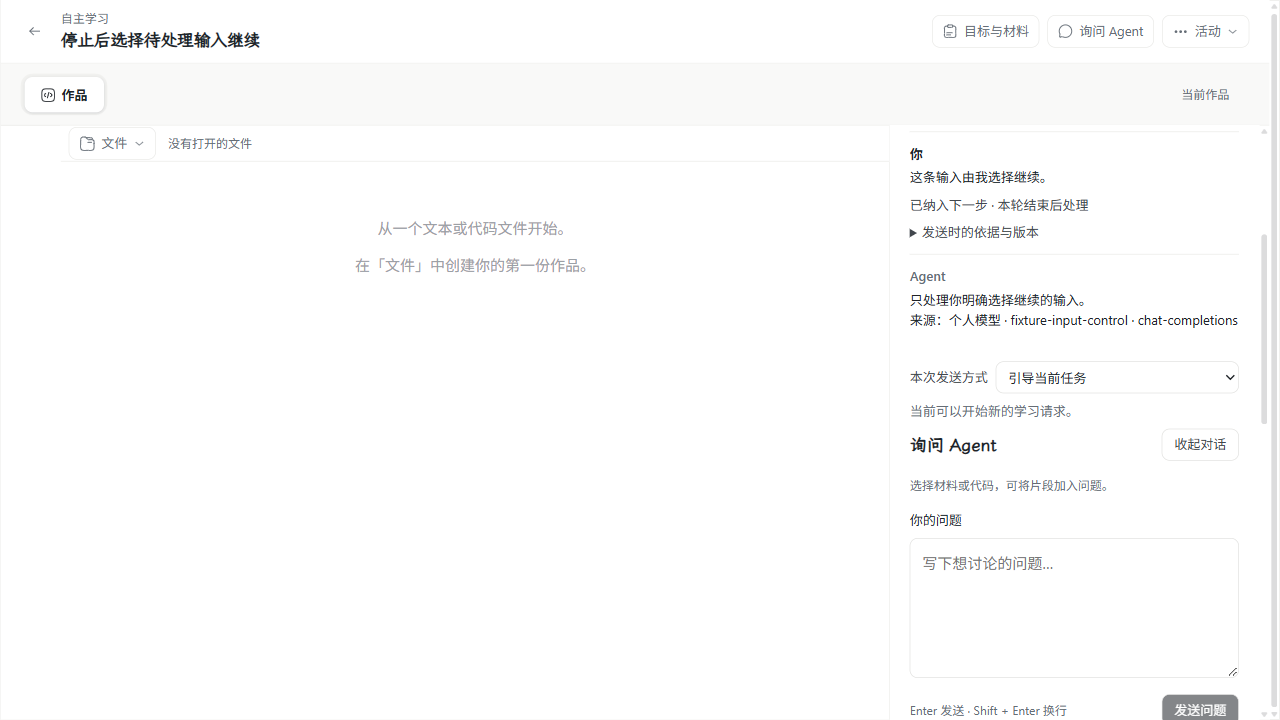
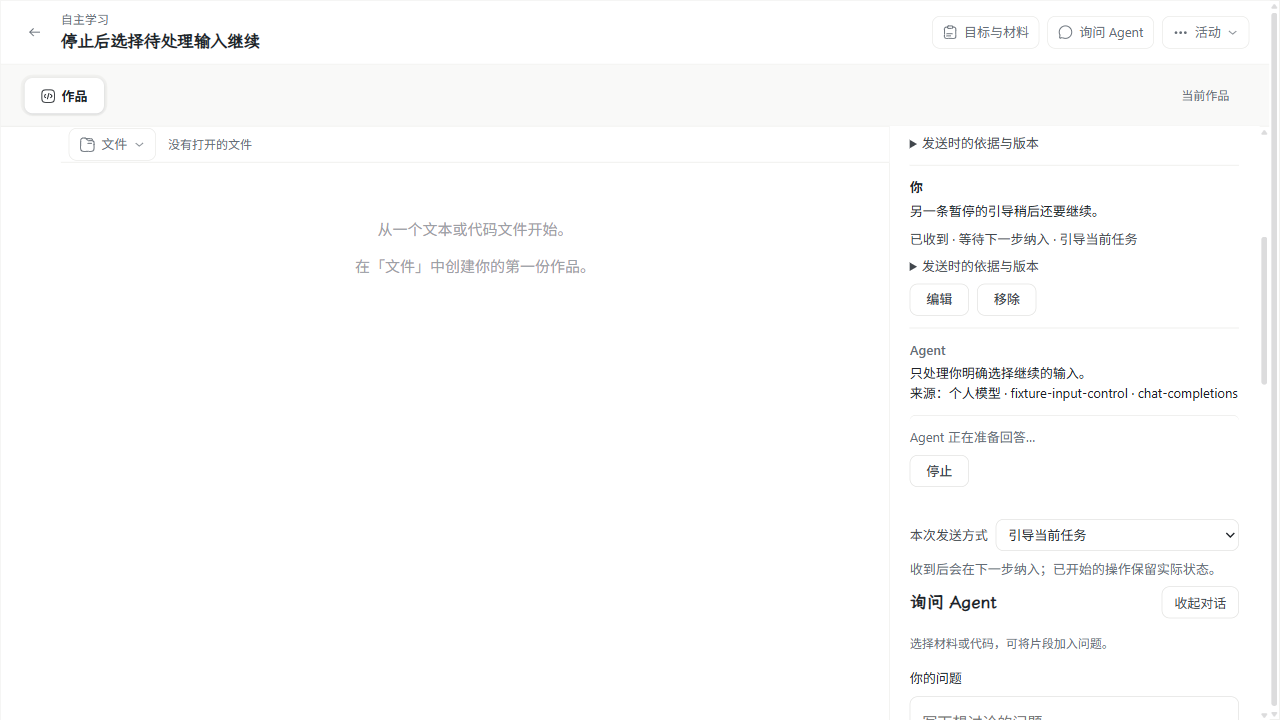
fix(wp07): retain paused input and immutable Wait observations (#200)

diff --git a/apps/web/e2e/inputControl.spec.ts b/apps/web/e2e/inputControl.spec.ts
@@ -2,6 +2,7 @@ import { test, expect } from '@playwright/test'
 import { mkdir } from 'node:fs/promises'
 import { fileURLToPath } from 'node:url'
 import { join } from 'node:path'
+import { teachingRunControlReceiptSchema } from '@xunjie/contracts/teaching-agent'
 import { fixture, reply, until } from '../../server/tests/support/teaching-input-control.mjs'
 
 const evidence = process.env.XUNJIE_INPUT_CONTROL_EVIDENCE_DIR
@@ -74,7 +75,7 @@ test('personal interaction settings persist and the busy composer freezes the ch
       return value.inputs.find((input: { input: { draft: { question: string } } }) => input.input.draft.question.startsWith('界面排队'))?.state
     }).toBe('pending')
     const received = (await f.api(`agent/${activity.activityId}/conversation`)).inputs.at(-1)
-    expect(received.input.delivery).toEqual({ version: 1, mode: 'queue', basis: { source: 'preference', preferenceVersion: (await f.api('agent-settings')).version } })
+    expect(received?.input.delivery).toEqual({ version: 1, mode: 'queue', basis: { source: 'preference', preferenceVersion: (await f.api('agent-settings')).version } })
     expect(f.payloads.length).toBe(1)
     await page.getByLabel('你的问题', { exact: true }).fill('尚未发送的中文草稿\n保留下一步想法。')
     await page.screenshot({ path: join(evidence, `input-control-queue-${process.platform}.png`) })
@@ -106,6 +107,9 @@ test('queued input editing survives reload and lost control receipts without cha
     await queued.getByRole('button', { name: '编辑', exact: true }).click()
     await queued.getByLabel('修改待处理内容', { exact: true }).fill('修改草稿，刷新后仍保留。')
     await expect(queued).toContainText('修改草稿已在本机保留。')
+    await queued.getByRole('button', { name: '保留草稿并收起', exact: true }).click()
+    await queued.getByRole('button', { name: '编辑', exact: true }).click()
+    await expect(queued.getByLabel('修改待处理内容', { exact: true })).toHaveValue('修改草稿，刷新后仍保留。')
     await page.reload()
     await page.getByRole('button', { name: '打开对话', exact: true }).click()
     await expect(page.getByLabel('修改待处理内容', { exact: true })).toHaveValue('修改草稿，刷新后仍保留。')
@@ -177,6 +181,7 @@ test('stop and selected continuation keep original control identities and remove
     await until(() => f.payloads.length === 1, 'Original generation is in flight.')
     await f.send(activity, '这条待处理内容要移除。', { version: 1, mode: 'queue', basis: { source: 'explicit', preferenceVersion: 0 } })
     const selected = await f.send(activity, '这条输入由我选择继续。', { version: 1, mode: 'queue', basis: { source: 'explicit', preferenceVersion: 0 } })
+    await f.send(activity, '另一条暂停的引导稍后还要继续。')
     await page.goto(f.endpoint + '/?activity=' + activity.activityId)
     await page.getByRole('button', { name: '打开对话', exact: true }).click()
     const conversation = page.getByRole('region', { name: '与 Agent 的对话', exact: true })
@@ -196,10 +201,18 @@ test('stop and selected continuation keep original control identities and remove
     await expect(page.getByText('只处理你明确选择继续的输入。', { exact: true })).toBeVisible({ timeout: 20000 })
     const value = await f.api(`agent/${activity.activityId}/conversation`)
     expect(value.runs.length).toBe(2)
-    expect(value.inputs.find((input: { inputId: string }) => input.inputId === selected.inputId).state).toBe('adopted')
+    expect(value.inputs.find((input: { inputId: string }) => input.inputId === selected.inputId)?.state).toBe('adopted')
     expect(f.payloads.length).toBe(2)
     expect(controls.length).toBe(1)
-    expect((await f.api(`agent/${activity.activityId}/controls/${controls[0]}`)).operation).toBe('stop')
+    expect(teachingRunControlReceiptSchema.parse(await f.api(`agent/${activity.activityId}/controls/${controls[0]}`)).operation).toBe('stop')
+    await conversation.getByRole('checkbox', { name: '另一条暂停的引导稍后还要继续。', exact: true }).check()
+    await conversation.getByRole('button', { name: '继续选中的输入', exact: true }).click()
+    await expect.poll(async () => {
+      const runs = (await f.api(`agent/${activity.activityId}/conversation`)).runs
+      return runs.length === 3 && runs.at(-1)?.state === 'completed'
+    }).toBe(true)
+    expect((await f.api(`agent/${activity.activityId}/conversation`)).runs.length).toBe(3)
+    expect(f.payloads.length).toBe(3)
     await page.screenshot({ path: join(evidence, `input-control-continue-${process.platform}.png`) })
   } finally { await f.close() }
 })
@@ -242,7 +255,7 @@ test('explicit response bypasses queue, consumption rejects a late edit and anot
     await expect(page.getByText('明确回应与补充第 4 步。', { exact: true })).toBeVisible({ timeout: 20000 })
     const value = await f.api(`agent/${activity.activityId}/conversation`)
     expect(value.runs.length).toBe(2)
-    expect(value.inputs.find((input: { inputId: string }) => input.inputId === queued.inputId).version).toBe(1)
+    expect(value.inputs.find((input: { inputId: string }) => input.inputId === queued.inputId)?.version).toBe(1)
     expect(value.questions[0].state).toBe('answered')
     expect(f.payloads.length).toBe(4)
   } finally { releaseEdit(); releaseModel(); await f.close() }

diff --git a/apps/web/src/product/AgentControls.tsx b/apps/web/src/product/AgentControls.tsx
@@ -15,6 +15,19 @@ const controlReasons: Record<string, string> = {
   'original-effects-unconfirmed': '原操作仍在核对，暂时不能建立后继任务。',
   'select-inputs': '请先选择要继续处理的输入。', 'run-active': '当前任务仍在运行，请先核对其状态。',
 }
+const pauseReasons: Record<string, string> = {
+  'stop-requested': '你已停止原任务，等待你决定如何继续。',
+  'student-response-expired': '原提问等待回应的期限已到，自动推进已暂停。',
+  'wait-expired': '原操作等待结果的期限已到，自动推进已暂停。',
+  'model-not-selected': '尚未选择模型，可以检查设置后继续。',
+  'model-unavailable': '当前模型暂不可用，输入仍保留。',
+  'model-step-budget-exhausted': '本次任务的计算预算已用尽。',
+  'tool-budget-exhausted': '本次任务的操作预算已用尽。',
+  'input-token-budget-exhausted': '本次任务的输入额度已用尽。',
+  'output-token-budget-exhausted': '本次任务的输出额度已用尽。',
+  'model-call-budget-exhausted': '本次任务的调用时间已用尽。',
+  'run-deadline-exceeded': '本次任务的总期限已到。',
+}
 
 /** Every control is protected before delivery. Remounts query the original receipt before retrying. */
 function useAgentControl(scope: string, target: string, readOnly: boolean, request: Request, confirmed: () => Promise<void>) {
@@ -44,7 +57,8 @@ function useAgentControl(scope: string, target: string, readOnly: boolean, reque
       const saved = await agentControlStore.change(key, current => {
         if (!current) throw new Error('原记录暂不可用。')
         return receipt.status === 'accepted' && pending.input.operation === 'revise' && current.draft && current.draft.text === pending.input.text
-          ? { ...current, draft: { ...current.draft, editing: false } } : current
+          ? { ...current, draft: { ...current.draft, editing: false,
+            expectedVersion: 'input' in receipt && receipt.input ? receipt.input.version : current.draft.expectedVersion } } : current
       })
       if (alive.current) {
         setRecord(saved); setError(receipt.status === 'rejected' ? controlReasons[receipt.reason] ?? '操作未生效，原内容仍保留。' : '')
@@ -102,16 +116,20 @@ export function AgentInputRecord({ input, scope, readOnly, request, onConfirmed 
   return <div className="agent-input-record" data-input-id={input.inputId} data-state={input.state}>
     <p className="detail">{status} · {input.mode === 'queue' ? '本轮结束后处理' : '引导当前任务'}</p>
     {input.version > 1 && <div className="preserve-lines"><span className="detail">当前版本：{input.version}</span><p>{input.input.draft.question}</p></div>}
-    {input.state === 'paused' && <p className="detail">暂停原因：{input.reason || '原任务未正常完成'}</p>}
+    {input.state === 'paused' && <><p className="detail">{pauseReasons[input.reason] ?? '原任务未正常完成，输入仍保留，可选择后继续。'}</p>
+      {input.reason && <details><summary>技术详情</summary><p className="detail">{input.reason}</p></details>}</>}
     <details><summary>发送时的依据与版本</summary><p className="detail">版本 {input.version}；{input.input.delivery?.basis.source === 'preference' ? '使用当时的个人偏好' : '本次明确选择'}。</p>
       {input.input.draft.references.map(ref => <p className="detail" key={ref.referenceId}>引用：{ref.sourceName}</p>)}
       {input.input.works.map(work => <p className="detail" key={work.objectId}>作品：{work.name}</p>)}
     </details>
     {editable && !editing && !readOnly && <div className="agent-control-actions">
-      <button type="button" className="outline" disabled={disabled} onClick={() => control.change({ draft: { text: input.input.draft.question, expectedVersion: input.version, editing: true } })}>编辑</button>
+      <button type="button" className="outline" disabled={disabled} onClick={() => control.change({ draft: { text: draft?.text ?? input.input.draft.question,
+        expectedVersion: draft?.expectedVersion ?? input.version, editing: true } })}>编辑</button>
       <button type="button" className="outline" disabled={disabled} onClick={() => void control.submit(`inputs/${input.inputId}/control`, { version: 1, expectedVersion: input.version, operation: 'remove' })}>移除</button>
       {input.mode === 'queue' && <button type="button" className="outline" disabled={disabled} onClick={() => void control.submit(`inputs/${input.inputId}/control`, { version: 1, expectedVersion: input.version, operation: 'promote' })}>改为引导</button>}
     </div>}
+    {!editable && !editing && draft && (draft.text !== input.input.draft.question || draft.expectedVersion !== input.version) && <button type="button"
+      className="outline" disabled={disabled} onClick={() => control.change({ draft: { ...draft, editing: true } })}>查看保留的修改草稿</button>}
     {editing && draft && <div className="agent-input-editor">
       <label>修改待处理内容<textarea aria-label="修改待处理内容" rows={4} value={draft.text} disabled={disabled} maxLength={QUESTION_TEXT_MAX_LENGTH}
         onChange={event => control.change({ draft: { ...draft, text: event.target.value } })} /></label>

diff --git a/packages/learning-space/src/teaching-agent/index.ts b/packages/learning-space/src/teaching-agent/index.ts
@@ -26,6 +26,7 @@ import { orderTeachingWrites } from './input-order.js';
 import { createTeachingInputControls } from './input-controls.js';
 import { createTeachingRunControls } from './run-controls.js';
 import { validateTeachingInputs } from './input-validation.js';
+import { insertTeachingRun } from './run-records.js';
 import { createTeachingRunDriver, TeachingBudgetError, type TeachingRunLimits } from './driver.js';
 import type { TeachingToolHost } from './tool-types.js';
 import { studentAskDefinition } from './student-questions.js';
@@ -204,12 +205,8 @@ export function createTeachingAgent(storage: OwnedStorage, options: TeachingAgen
       await tx.query(`INSERT INTO teaching_requests(request_id,activity_id,input_digest,body,state,run_id,input_id,receipt)
         VALUES($1,$2,$3,$4,'accepted',$5,$6,$7)`, [input.requestId, input.scope.activityId, inputDigest,
         JSON.stringify(input), targetRunId, inputId, JSON.stringify(accepted)]);
-      if (!busy) await tx.query(`INSERT INTO teaching_runs(run_id,activity_id,request_id,input_id,identity,state,usage,previous_run_id)
-        VALUES($1,$2,$3,$4,$5,'received',$6,$7)`, [runId, input.scope.activityId, input.requestId, inputId,
-        JSON.stringify({ environmentId: input.scope.environmentId, spaceId: input.scope.spaceId,
-          principalId: input.scope.principalId, kind: activity.identity.kind, name: activity.identity.name }),
-        JSON.stringify({ state: 'unknown' }), previous?.run_id ?? null]);
-      if (!busy) await driver.freezeBudget(tx, runId);
+      if (!busy) await insertTeachingRun(tx, { runId, activityId: input.scope.activityId, requestId: input.requestId, inputId,
+        identity: activity.identity, previousRunId: previous ? String(previous.run_id) : null }, driver.freezeBudget);
       const received = await appendEvent(tx, input.scope.activityId, 'input', { runId: targetRunId, requestId: input.requestId, inputId,
         question: input.draft.question, references: input.draft.references.map(reference => ({ referenceId: reference.referenceId,
           source: reference.source, sourceName: reference.sourceName, copy: reference.copy })), works: input.works.map(work => ({ objectId: work.objectId,
@@ -656,7 +653,8 @@ export function createTeachingAgent(storage: OwnedStorage, options: TeachingAgen
   }
   const inputs = createTeachingInputs(storage, { appendEvent, freezeBudget: (tx, runId) => driver.freezeBudget(tx, runId),
     supersedeQuestion: (tx, activityId, runId, inputId) => studentQuestions.supersede(tx, activityId, runId, inputId) });
-  const inputControls = createTeachingInputControls(storage, { inputs, appendEvent });
+  const inputControls = createTeachingInputControls(storage, { inputs, appendEvent,
+    freezeBudget: (tx, runId) => driver.freezeBudget(tx, runId) });
   const runControls = createTeachingRunControls(storage, { models: options.models, appendEvent,
     freezeBudget: (tx, runId) => driver.freezeBudget(tx, runId) });
   const studentQuestions = createStudentQuestions(storage, { activity: options.activity, appendEvent });
@@ -1092,9 +1090,20 @@ export async function validateTeachingAgent(storage: OwnedStorage) {
     if (wait.observed_step_id) {
       const observed = steps.find(step => step.step_id === wait.observed_step_id);
       const plan = observed?.plan as { inputVersions?: unknown[]; waitVersions?: { waitId: string; outcomeDigest: string }[] } | undefined;
-      if (!observed || observed.run_id !== wait.run_id || wait.state !== 'consumed' || wait.purpose !== 'result'
-        || plan?.inputVersions && !plan.waitVersions?.some(fixed => fixed.waitId === wait.wait_id && fixed.outcomeDigest === canonicalDigest(command.outcome)))
-        throw new StorageError('corrupt');
+      if (!observed || observed.run_id !== wait.run_id || wait.state !== 'consumed' || wait.purpose !== 'result') throw new StorageError('corrupt');
+      if (plan?.inputVersions) {
+        const fixed = plan.waitVersions?.find(fixed => fixed.waitId === wait.wait_id);
+        const { rows: observations } = await storage.read(`SELECT body FROM teaching_events WHERE activity_id=$1
+          AND kind='wait-observed' AND body->>'waitId'=$2 AND body->>'stepId'=$3`, [runs.find(run => run.run_id === wait.run_id)?.activity_id,
+          wait.wait_id, wait.observed_step_id]);
+        const fact = observations[0]?.body as { outcomeDigest?: string; outcome?: unknown } | undefined;
+        // Cleanup can append a new physical-state head. The model consumed the immutable
+        // observation committed with its plan, never that later mutable command projection.
+        if (!fixed || observations.length !== 1 || !fact?.outcome || fact.outcomeDigest !== fixed.outcomeDigest
+          || canonicalDigest(fact.outcome) !== fixed.outcomeDigest) throw new StorageError('corrupt');
+        const outcome = fact.outcome as { feedback: object };
+        modelToolResultSchema.parse({ callId: command.call_id, ...outcome.feedback });
+      }
     }
   }
   await validateStudentQuestions(storage);

diff --git a/packages/learning-space/src/teaching-agent/inputs.ts b/packages/learning-space/src/teaching-agent/inputs.ts
@@ -3,6 +3,7 @@ import { StorageError, type Migration, type OwnedStorage, type OwnedTransaction 
 import { actionInputSchema, type ActionInput } from '@xunjie/contracts/action-intents';
 import { teachingInputSchema, type TeachingEventKind, type TeachingRun } from '@xunjie/contracts/teaching-agent';
 import { operationId } from './identity.js';
+import { insertTeachingRun } from './run-records.js';
 
 export const teachingInputMigration: Migration = { version: 8, name: 'ordered-durable-agent-inputs', sql: `
   ALTER TABLE teaching_waits ADD COLUMN observed_step_id uuid REFERENCES teaching_steps(step_id);
@@ -54,7 +55,6 @@ export function createTeachingInputs(storage: OwnedStorage, owner: {
   freezeBudget(tx: OwnedTransaction, runId: string): Promise<void>;
 }) {
   async function register(tx: OwnedTransaction, input: ActionInput, runId: string, sequence: number) {
-    await owner.freezeBudget(tx, runId);
     const inputId = operationId('teaching-input:' + input.requestId);
     await tx.query(`INSERT INTO teaching_inputs(input_id,request_id,activity_id,seq,version,mode,state,
       received_run_id,waiting_on_run_id,basis) VALUES($1,$2,$3,$4,1,$5,'pending',$6,$6,$7)`,
@@ -121,10 +121,8 @@ export function createTeachingInputs(storage: OwnedStorage, owner: {
     const nextRunId = operationId('teaching-queued-run:' + next.input_id), input = actionInputSchema.parse(next.body);
     const { rows: [previous] } = await tx.query('SELECT identity FROM teaching_runs WHERE run_id=$1', [run.runId]);
     if (!previous) throw new StorageError('corrupt');
-    await tx.query(`INSERT INTO teaching_runs(run_id,activity_id,request_id,input_id,identity,state,previous_run_id,usage)
-      VALUES($1,$2,$3,$4,$5,'received',$6,$7)`, [nextRunId, run.activityId, input.requestId, next.input_id,
-      JSON.stringify(previous.identity), run.runId, JSON.stringify({ state: 'unknown' })]);
-    await owner.freezeBudget(tx, nextRunId);
+    await insertTeachingRun(tx, { runId: nextRunId, activityId: run.activityId, requestId: input.requestId,
+      inputId: String(next.input_id), identity: previous.identity, previousRunId: run.runId }, owner.freezeBudget);
     await tx.query(`UPDATE teaching_inputs SET waiting_on_run_id=$2 WHERE waiting_on_run_id=$1 AND state='pending'`, [run.runId, nextRunId]);
     await owner.appendEvent(tx, run.activityId, 'run-received', {
       runId: nextRunId, previousRunId: run.runId, requestId: input.requestId, inputId: next.input_id, source: 'explicit-queue',

diff --git a/packages/learning-space/src/teaching-agent/input-controls.ts b/packages/learning-space/src/teaching-agent/input-controls.ts
@@ -4,10 +4,12 @@ import { teachingInputControlSchema, teachingInputControlReceiptSchema, type Tea
   teachingControlReceiptSchema, type TeachingInputControlReceipt } from '@xunjie/contracts/teaching-agent';
 import { canonicalDigest, operationId } from './identity.js';
 import { teachingInputDigest, teachingInputFromRow, type createTeachingInputs } from './inputs.js';
+import { insertTeachingRun } from './run-records.js';
 
 export function createTeachingInputControls(storage: OwnedStorage, owner: {
   inputs: ReturnType<typeof createTeachingInputs>;
   appendEvent(tx: OwnedTransaction, activityId: string, kind: TeachingEventKind, body: Record<string, unknown>): Promise<{ seq: number }>;
+  freezeBudget(tx: OwnedTransaction, runId: string): Promise<void>;
 }) {
   async function read(tx: OwnedTransaction, activityId: string, inputId: string) {
     const { rows: [row] } = await tx.query(`SELECT i.*,v.body FROM teaching_inputs i JOIN teaching_input_revisions v
@@ -47,9 +49,8 @@ export function createTeachingInputControls(storage: OwnedStorage, owner: {
           await tx.query(`INSERT INTO teaching_requests(request_id,activity_id,input_digest,body,state,run_id,input_id,receipt)
             VALUES($1,$2,$3,$4,'accepted',$5,$6,$7)`, [requestId, activityId, receipt.inputDigest, JSON.stringify(promoted), runId,
             replacementInputId, JSON.stringify(receipt)]);
-          if (!active) await tx.query(`INSERT INTO teaching_runs(run_id,activity_id,request_id,input_id,identity,state,previous_run_id,usage)
-            VALUES($1,$2,$3,$4,$5,'received',$6,$7)`, [runId, activityId, requestId, replacementInputId, JSON.stringify(latest.identity),
-            latest.run_id, JSON.stringify({ state: 'unknown' })]);
+          if (!active) await insertTeachingRun(tx, { runId, activityId, requestId, inputId: replacementInputId,
+            identity: latest.identity, previousRunId: String(latest.run_id) }, owner.freezeBudget);
           await tx.query("UPDATE teaching_inputs SET state='superseded',reason='promoted-to-new-input' WHERE input_id=$1", [inputId]);
           const event = await owner.appendEvent(tx, activityId, 'input-promoted', { inputId: replacementInputId, runId,
             fromInputId: inputId, fromVersion: input.expectedVersion, requestId: input.requestId, question: fixed.draft.question });

diff --git a/packages/learning-space/src/teaching-agent/run-controls.ts b/packages/learning-space/src/teaching-agent/run-controls.ts
@@ -4,6 +4,7 @@ import { teachingContinueSelectionSchema, teachingRunControlReceiptSchema,
   teachingStopInputSchema, isRecoverableTeachingPause, type TeachingRunControlReceipt, type TeachingEventKind } from '@xunjie/contracts/teaching-agent';
 import type { LearningModelPort } from '../model-connections/service.js';
 import { canonicalDigest, operationId } from './identity.js';
+import { insertTeachingRun } from './run-records.js';
 
 /** Explicit controls use the same durable order and original-identity ledger as input revision. */
 export function createTeachingRunControls(storage: OwnedStorage, owner: {
@@ -72,10 +73,8 @@ export function createTeachingRunControls(storage: OwnedStorage, owner: {
           source: 'student-explicit', originalBudgetPreserved: true });
       } else if (nextRunId) {
         const root = selected[0]!;
-        await tx.query(`INSERT INTO teaching_runs(run_id,activity_id,request_id,input_id,identity,state,previous_run_id,usage)
-          VALUES($1,$2,$3,$4,$5,'received',$6,$7)`, [nextRunId, activityId, root.request_id, root.input_id,
-          JSON.stringify(identity), runId, JSON.stringify({ state: 'unknown' })]);
-        await owner.freezeBudget(tx, nextRunId);
+        await insertTeachingRun(tx, { runId: nextRunId, activityId, requestId: String(root.request_id), inputId: String(root.input_id),
+          identity, previousRunId: runId }, owner.freezeBudget);
         for (const item of selected) {
           await tx.query("UPDATE teaching_inputs SET state='pending',reason='',waiting_on_run_id=$2 WHERE input_id=$1", [item.input_id, nextRunId]);
           await tx.query('INSERT INTO teaching_run_input_selections VALUES($1,$2,$3)', [nextRunId, item.input_id, item.version]);

diff --git a/packages/learning-space/src/teaching-agent/driver.ts b/packages/learning-space/src/teaching-agent/driver.ts
@@ -283,7 +283,8 @@ export function createTeachingRunDriver(storage: OwnedStorage, owner: {
       await owner.inputs.adopt(tx, run, stepId, fixedInputs);
       for (const wait of plan.waitVersions!) {
         await tx.query('UPDATE teaching_waits SET observed_step_id=$2 WHERE wait_id=$1 AND observed_step_id IS NULL', [wait.waitId, stepId]);
-        await event(tx, run.activityId, 'wait-observed', { runId: run.runId, stepId, waitId: wait.waitId, outcomeDigest: wait.outcomeDigest });
+        await event(tx, run.activityId, 'wait-observed', { runId: run.runId, stepId, waitId: wait.waitId,
+          outcomeDigest: wait.outcomeDigest, outcome: ready.find(row => row.wait_id === wait.waitId)!.outcome });
       }
       await event(tx, run.activityId, 'budget-reserved', { runId: run.runId, stepId, attemptId,
         modelSteps: 1, outputTokens: plan.input.limits.maxOutputTokens, inputTokens: 'unknown', inputReserve,
@@ -656,6 +657,7 @@ export function createTeachingRunDriver(storage: OwnedStorage, owner: {
         lease_owner=NULL,lease_expires_at=NULL WHERE run_id=$1`, [run.runId, stopped ? 'stopped' : 'paused', stopped ? 'stop-requested' : 'student-response-expired']);
       await event(tx, run.activityId, stopped ? 'run-stopped' : 'system-notice', { runId: run.runId,
         reason: stopped ? 'stop-requested' : 'student-response-expired', nativeToolsPaired: true });
+      await owner.inputs.afterFinish(tx, run, stopped ? 'stopped' : 'paused', stopped ? 'stop-requested' : 'student-response-expired');
     });
   }
   async function execute(initial: TeachingRun, generation: number) {

diff --git a/apps/web/src/product/ActivityConversation.tsx b/apps/web/src/product/ActivityConversation.tsx
@@ -133,8 +133,8 @@ export function ActivityConversation({ activity, spaceKey, namespace, onModels, 
       <span>{runLabel(latest, conversation.waits)}</span>
       <AgentRunControls key={scope + latest.runId} run={latest} inputs={conversation.inputs} scope={scope} readOnly={readOnly || activity.status !== 'open'} request={agentRequest} onConfirmed={refresh} />
     </div>}
-    {!active && latest && latest.state !== 'completed' && <div className="teaching-run-status">
-      <span>{runLabel(latest, conversation.waits)}</span>
+    {!active && latest && (latest.state !== 'completed' || conversation.inputs.some(input => ['pending', 'paused'].includes(input.state))) && <div className="teaching-run-status">
+      <span>{latest.state === 'completed' ? '仍有待处理输入，选择后继续。' : runLabel(latest, conversation.waits)}</span>
       <div className="teaching-run-actions">
         <AgentRunControls key={scope + latest.runId} run={latest} inputs={conversation.inputs} scope={scope} readOnly={readOnly || activity.status !== 'open'} request={agentRequest} onConfirmed={refresh} />
         {onModels && latest.state === 'paused' && ['model-not-selected', 'model-unavailable', 'max-output-missing'].includes(latest.reason) &&

diff --git a/apps/web/e2e/teachingConversation.spec.ts b/apps/web/e2e/teachingConversation.spec.ts
@@ -154,8 +154,8 @@ test('the formal home and activity conversation persist a first question, a foll
   await page.getByRole('button', { name: '发送问题', exact: true }).click()
   await expect(page.getByText('Agent 正在生成回答…')).toBeVisible({ timeout: 20000 })
   await page.getByLabel('你的问题', { exact: true }).fill('生成期间继续输入的新草稿。')
-  await expect(page.getByRole('button', { name: '等待当前回答', exact: true })).toBeDisabled()
-  await expect(page.getByText('当前回答结束后再发送；问题会先保存在草稿中。')).toBeVisible()
+  await expect(page.getByRole('button', { name: '补充当前任务', exact: true })).toBeEnabled()
+  await expect(page.getByText('收到后会在下一步纳入；已开始的操作保留实际状态。', { exact: true })).toBeVisible()
   await page.getByRole('button', { name: '停止', exact: true }).click()
   await expect(page.getByText('回答已停止，已发生的内容仍保留。')).toBeVisible({ timeout: 20000 })
   await expect(page.getByText('这是正在生成的界面回答，内容会逐步出现', { exact: true })).toBeVisible()

diff --git a/packages/learning-space/src/teaching-agent/run-records.ts b/packages/learning-space/src/teaching-agent/run-records.ts
@@ -1,0 +1,13 @@
+import type { OwnedTransaction } from '@xunjie/storage';
+import { spaceIdentitySchema } from '@xunjie/contracts/spaces';
+
+/** Every new logical Run fixes its initial state and budget in the same intake transaction. */
+export async function insertTeachingRun(tx: OwnedTransaction, seed: {
+  runId: string; activityId: string; requestId: string; inputId: string; identity: unknown; previousRunId: string | null;
+}, freezeBudget: (tx: OwnedTransaction, runId: string) => Promise<void>) {
+  const identity = spaceIdentitySchema.parse(seed.identity);
+  await tx.query(`INSERT INTO teaching_runs(run_id,activity_id,request_id,input_id,identity,state,previous_run_id,usage)
+    VALUES($1,$2,$3,$4,$5,'received',$6,$7)`, [seed.runId, seed.activityId, seed.requestId, seed.inputId,
+    JSON.stringify(identity), seed.previousRunId, JSON.stringify({ state: 'unknown' })]);
+  await freezeBudget(tx, seed.runId);
+}

diff --git a/docs/student-agent-implementation/wp07-200-code-review.md b/docs/student-agent-implementation/wp07-200-code-review.md
@@ -1,0 +1,29 @@
+# 运行中输入控制的双轴审查与修复
+
+固定比较点 `7caf8c597d3f731527b185427decada28fb3eef3`，首次审查 HEAD `59894b4b`；比较命令 `git diff 7caf8c597d3f731527b185427decada28fb3eef3...HEAD`，排除同伴已合入的 #201。Standards 与 Spec 由两个独立只读审查者并行执行。规范来源为根 AGENTS、DESIGN、CONTEXT、相关模块 README、目录索引和本轮 ADR；需求来自 [运行中引导、排队与暂停后继续](https://github.com/paher-din/XunJie/issues/200)。
+
+## Standards
+
+1. **P2，文档规范。** 新暂停项直接显示 `wait-expired` 等工程码。DESIGN 要求工程信息进入按需技术详情，影响操作的恢复提示直接可见。
+2. **P3，判断项：可能的 Duplicated Code。** FIFO、转引导和显式续接重复初始化 Run、预算与后继关联；建议集中维护初始状态和预算。这是非阻塞维护判断，非硬规范违例。
+
+新文档的归属与索引入口清楚。首次只读文档检查覆盖 167 个本地目标，0 失败；审查者未运行编译或运行时测试。
+
+## Spec
+
+1. **P2，学生提问超时遗漏输入暂停。** 直接暂停 Run 而未结清未消费输入，queue 仍为 pending、缺少暂停原因及日志。不符合“所有未消费 steering/queue 作为可见暂停项保留原因”。
+2. **P2，停止清理使合法结果无法通过维护校验。** 用固定观察摘要比较可变 command head；清理追加 `stoppedExecution` 后误报 corrupt。不符合“维护参与、资源保留、迁移及日常重启覆盖新增事实”。
+3. **P2，部分续接完成后剩余暂停项失去继续入口。** 最新 Run 正常结束便隐藏所有选择控制，未选择的 paused steering 无法稍后继续。不符合“终态后由学生明确选择输入建立关联后继 Run”。
+4. **P2，收起后再次编辑覆盖保留草稿。** 以服务器原文重建草稿；消费后查看/复制入口也会消失。不符合“已消费时明确失败并保护待发送内容”。
+
+这些是首次源码审查结论，不将静态核对称作运行验证。Standards 初次 2 项（最高 P2）；Spec 初次 4 项（最高 P2），两个轴分别保留。
+
+## 修复与回归
+
+- 暂停项显示可理解的原因，原码放入“技术详情”。`run-records.ts` 统一根接收、FIFO、转引导、显式续接的初始状态与接收时预算；各入口保留自己的授权和原子事件顺序。
+- 学生 Wait 到期在原事务中暂停所有剩余输入。新增真实 Agent/PG 场景先复现 pending 错误，修复后通过。
+- 上下文固定时把完整 Wait outcome 与摘要提交为不可变观察事件。维护校验该观察和步骤计划，不比较后续清理 head。真实聚合、观察结果、停止原执行和 `agent.validate()` 先复现 corrupt，修复后通过。
+- 完整轮结束后仍显示剩余暂停项的选择入口。实际 Chrome 先选择 queue、完成后再选择原来未选的 steering，建立第三个关联 Run。
+- 收起/重开沿用本机草稿及预期版本，已消费后仍能查看不同的保留稿；成功修订更新本机版本。实际 Chrome 验证收起重开、刷新、丢回包及后台采用后草稿/焦点保留。
+
+审查问题的定向原生 2/2、Chrome 2/2 通过；此前 #200 原生文件 15/15、普通 Web 与完整 Windows 包各 5/5 通过。修复前的一次并行长任务回归在更早的等待阶段超时，未当作目标红测；单独重跑才确认维护 corrupt。最终工程与平台结论见 [交付记录](wp07-200-input-control.md)。

diff --git a/packages/learning-space/src/teaching-agent/README.md b/packages/learning-space/src/teaching-agent/README.md
@@ -72,6 +72,6 @@ WP03 的 `executions.agent` 是受信任的代码接口，持有 Run／步骤／
 - `apps/server/tests/teaching-agent.student-ask.runtime.test.mjs`：真实 HTTP/Agent/Gateway/PG 的问题、呈现、明确选择/文字/跳过、原身份查询、竞争回应、期限/预算、重启、隔离只读和接管。
 - `apps/server/tests/teaching-tools-host.runtime.test.mjs`：执行点资格、连续原生状态、浏览器领取与撤销、固定来源和维护所属边界。
 - `apps/server/tests/model-progress.test.mjs`：增量发布的凭据尾部扣留与停止公开。
-- `apps/web/e2e/teachingConversation.spec.ts`：正式入口首问、刷新、追加问题、生成期间草稿阻塞、停止、课程问答、进程重启和缺模型设置入口；macOS 与 Windows 桌面 Chrome 均执行。
+- `apps/web/e2e/teachingConversation.spec.ts`：正式入口首问、刷新、追加问题、生成期间保留新草稿和引导入口、停止、课程问答、进程重启和缺模型设置入口；macOS 与 Windows 桌面 Chrome 均执行。
 - `apps/web/e2e/teachingTools.spec.ts`：正式对话中的工具记录、来源定位、真实组件、浏览器等待／停止／重开和丢回执核对；实际平台结果以 #198 交付证据为准。
 - `apps/web/e2e/studentAsk.spec.ts`：正式 Chrome 回应入口、IP 定位、焦点/草稿保护、中文原文、未接收/丢回包、明确跳过和明暗窄桌面；实际平台通过项与未执行项分别报告。
